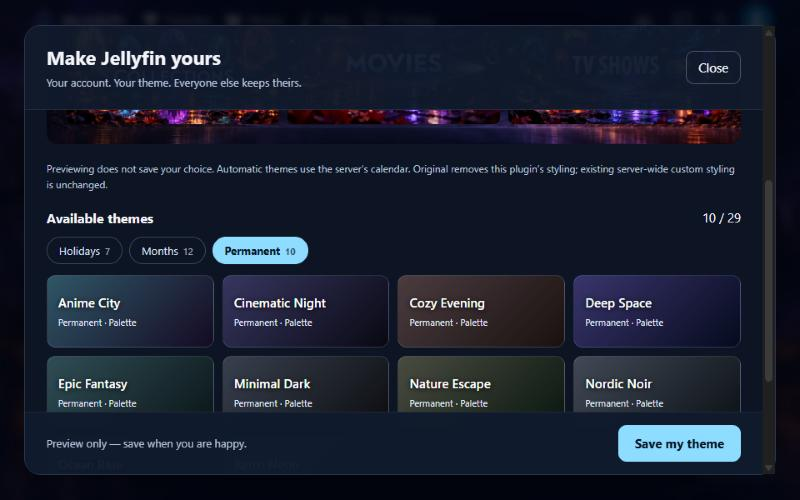
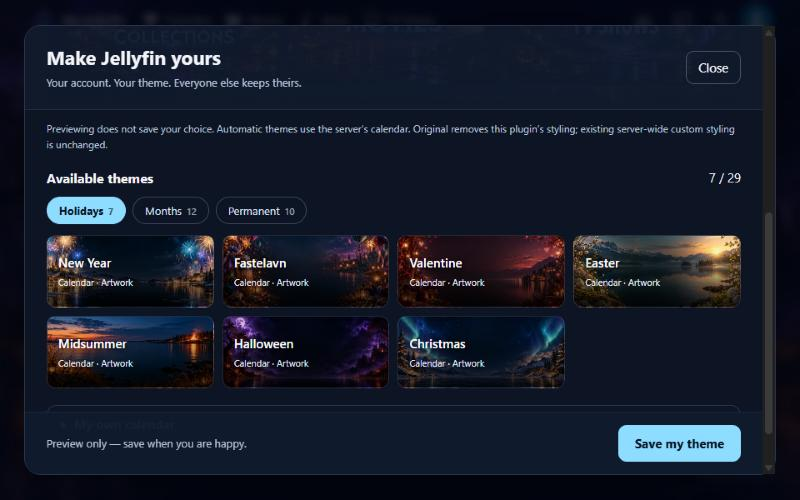
Release 0.2.4.0: picker thumbnails and neutral defaults
- Theme picker tiles show a 320 px copy of each theme's background,
  made by the server and cached by the browser (about 10 KB each).
- Holidays can be left out of Automatic Seasonal from the admin page.
  Until an administrator chooses, Fastelavn and Midsummer are left out
  on servers outside Denmark (by time zone or region).
- New installs use the server's own time zone; saved values are kept.

Built for Jellyfin 12.0, 12.1 and 12.2. Tests: 90 unit, 26 client,
Test-IsolatedServer 56/56 (thumbnail and holiday checks added),
Test-WebInjection 25/25, Test-DefaultPacks 9/9, and a browser check.

diff --git a/src/Jellyfin.Plugin.ThemeManager/Web/admin.html b/src/Jellyfin.Plugin.ThemeManager/Web/admin.html
@@ -28,7 +28,8 @@
     <label>Fixed theme <select class="tm-server-theme" is="emby-select"></select></label>
     <label>Calendar <select class="tm-server-schedule" is="emby-select"></select></label>
     <label style="display:flex;gap:.5em;align-items:center;margin:.8em 0"><input class="tm-allow-personal" type="checkbox" /> Users may make their own personal calendar</label>
-    <label>Calendar time zone <input class="tm-zone" is="emby-input" value="Europe/Copenhagen" /></label>
+    <label>Calendar time zone <input class="tm-zone" is="emby-input" /></label>
+    <fieldset class="tm-holidays" style="border:1px solid #ffffff30;border-radius:8px;margin:1em 0;padding:.6em 1em"><legend>Holidays in Automatic Seasonal</legend><p style="margin:.2em 0 .6em;font-size:.9em;opacity:.8">Unticked holidays are skipped; the month's theme shows instead. Users can still choose them as a fixed theme.</p><div class="tm-holiday-list" style="display:flex;flex-wrap:wrap;gap:.4em 1.4em"></div></fieldset>
     <button class="tm-save-server raised button-submit" is="emby-button" type="button">Save server default</button>
     <h2>Calendars</h2>
     <p>Your own "Automatic Seasonal": choose which theme shows on which dates. Shared calendars can be chosen as the server default and by every user.</p>
@@ -142,6 +143,12 @@
       el('.tm-user-mode').value = mine.mode; el('.tm-user-theme').value = mine.themeId || themes[0]?.id || '';
       el('.tm-server-mode').value = settings.choice.mode; el('.tm-server-theme').value = settings.choice.themeId || themes[0]?.id || '';
       el('.tm-zone').value = settings.timeZoneId;
+      // Holidays: calendar themes with a date rule other than a whole month.
+      const excluded = new Set(settings.automaticExcluded || []);
+      el('.tm-holiday-list').replaceChildren(...themes.filter(t => t.category === 'Calendar' && t.calendar && t.calendar.kind !== 'Month').map(t => {
+        const box = document.createElement('input'); box.type = 'checkbox'; box.value = t.id; box.checked = !excluded.has(t.id);
+        const label = document.createElement('label'); label.style.cssText = 'display:flex;gap:.4em;align-items:center'; label.append(box, t.name); return label;
+      }));
       if (effective.resolution.themeId) el('.tm-gallery').value = effective.resolution.themeId;
       status(themes.length + ' themes · Calendar date: ' + effective.localDate + ' · Effective choice: ' + (effective.theme?.name || 'Original Jellyfin'));
       modeControls(); await preview();
@@ -175,7 +182,7 @@
     }));
     el('.tm-save-server').addEventListener('click', run(async () => {
       const mode = el('.tm-server-mode').value;
-      await api('Admin/Settings', 'PUT', { choice: { mode, themeId: mode === 'Fixed' ? el('.tm-server-theme').value : null, scheduleId: mode === 'Schedule' ? el('.tm-server-schedule').value : null }, timeZoneId: el('.tm-zone').value, allowPersonalSchedules: el('.tm-allow-personal').checked });
+      await api('Admin/Settings', 'PUT', { choice: { mode, themeId: mode === 'Fixed' ? el('.tm-server-theme').value : null, scheduleId: mode === 'Schedule' ? el('.tm-server-schedule').value : null }, timeZoneId: el('.tm-zone').value, automaticExcluded: [...el('.tm-holiday-list').querySelectorAll('input:not(:checked)')].map(b => b.value), allowPersonalSchedules: el('.tm-allow-personal').checked });
       await load(); status('Server default saved. Existing branding is unchanged.');
     }));
     el('.tm-schedules').addEventListener('change', run(() => openEditor(el('.tm-schedules').value)));

diff --git a/src/Jellyfin.Plugin.ThemeManager/ThemeController.cs b/src/Jellyfin.Plugin.ThemeManager/ThemeController.cs
@@ -9,7 +9,8 @@ using ThemeManager.Core;
 
 namespace Jellyfin.Plugin.ThemeManager;
 
-public sealed record ServerSettings(ThemeChoice Choice, string TimeZoneId, bool AllowPersonalSchedules = true);
+/// <param name="AutomaticExcluded">Theme ids left out of Automatic Seasonal; null keeps the current setting.</param>
+public sealed record ServerSettings(ThemeChoice Choice, string TimeZoneId, bool AllowPersonalSchedules = true, IReadOnlyList<string>? AutomaticExcluded = null);
 public sealed record ScheduleTest(ThemeSchedule Schedule, DateOnly? From = null);
 
 [ApiController]
@@ -80,7 +81,7 @@ public sealed class ThemeController(ThemeCatalog catalog, UserThemeStore users, 
     {
         if (Today() is not { } date) return Problem("The configured time zone is invalid. An administrator must correct it.");
         var snapshot = catalog.Snapshot;
-        var result = ThemeResolver.Resolve(choice, Plugin.Instance.ServerChoice, snapshot, date, available);
+        var result = ThemeResolver.Resolve(choice, Plugin.Instance.ServerChoice, snapshot, date, available, Plugin.Instance.AutomaticExcluded);
         return Data(new { Resolution = result, LocalDate = date, Theme = result.ThemeId is { } themeId ? Describe(snapshot.Themes[themeId]) : null, Rendering = "OptInWebClient", RefreshAfterSeconds = 60 });
     }
 
@@ -96,10 +97,12 @@ public sealed class ThemeController(ThemeCatalog catalog, UserThemeStore users, 
     }
 
     [HttpGet("Themes/{id}/Assets/{slot}/Preview")]
-    public async Task<IActionResult> AssetPreview(string id, string slot, [FromQuery] string? v, CancellationToken cancellationToken)
+    public async Task<IActionResult> AssetPreview(string id, string slot, [FromQuery] string? v, [FromQuery] string? size, CancellationToken cancellationToken)
     {
         if (!catalog.Snapshot.Themes.TryGetValue(id, out var theme) || !theme.Assets.TryGetValue(slot, out var asset)) return NotFound();
-        var path = await previews.GetAsync(asset, slot, cancellationToken).ConfigureAwait(false);
+        // Fixed sizes only, so a request cannot make the server encode arbitrary widths.
+        var width = size == "thumb" ? PreviewCache.ThumbnailWidth : PreviewCache.WidthFor(slot);
+        var path = await previews.GetAsync(asset, width, cancellationToken).ConfigureAwait(false);
         // Revisioned URLs never change content, so the browser may keep them; unversioned ones revalidate.
         Response.Headers.CacheControl = v == asset.Revision ? "private, max-age=31536000, immutable" : "private, max-age=0, must-revalidate";
         Response.Headers.XContentTypeOptions = "nosniff";
@@ -180,7 +183,7 @@ public sealed class ThemeController(ThemeCatalog catalog, UserThemeStore users, 
 
     [HttpGet("Admin/Settings")]
     [Authorize(Policy = Policies.RequiresElevation)]
-    public IActionResult GetSettings() => Data(new ServerSettings(Plugin.Instance.ServerChoice, Plugin.Instance.Configuration.TimeZoneId, Plugin.Instance.Configuration.AllowPersonalSchedules));
+    public IActionResult GetSettings() => Data(new ServerSettings(Plugin.Instance.ServerChoice, Plugin.Instance.Configuration.TimeZoneId, Plugin.Instance.Configuration.AllowPersonalSchedules, Plugin.Instance.AutomaticExcluded));
 
     [HttpPut("Admin/Settings")]
     [Authorize(Policy = Policies.RequiresElevation)]
@@ -193,6 +196,7 @@ public sealed class ThemeController(ThemeCatalog catalog, UserThemeStore users, 
             var shared = (await schedules.GetSharedAsync(cancellationToken).ConfigureAwait(false)).ToDictionary(s => s.Id, StringComparer.Ordinal);
             ThemeResolver.Validate(settings.Choice, catalog.Snapshot, allowFollowServer: false, shared);
             TimeZoneInfo.FindSystemTimeZoneById(settings.TimeZoneId);
+            if (settings.AutomaticExcluded?.Any(id => !SafePaths.IsId(id)) == true) throw new InvalidDataException("Holiday ids must be theme ids.");
         }
         catch (Exception ex) when (ex is InvalidDataException or TimeZoneNotFoundException or InvalidTimeZoneException) { return BadRequest(new { Error = ex.Message }); }
         // Use Jellyfin's native plugin configuration persistence, not a separate server settings file.
@@ -202,6 +206,7 @@ public sealed class ThemeController(ThemeCatalog catalog, UserThemeStore users, 
         configuration.ServerScheduleId = settings.Choice.Mode == ThemeMode.Schedule ? settings.Choice.ScheduleId : null;
         configuration.TimeZoneId = settings.TimeZoneId;
         configuration.AllowPersonalSchedules = settings.AllowPersonalSchedules;
+        if (settings.AutomaticExcluded is { } excluded) configuration.AutomaticExcluded = [.. excluded.Distinct(StringComparer.Ordinal)];
         Plugin.Instance.SaveConfiguration();
         return NoContent();
     }

diff --git a/tests/ThemeManager.Tests/CoreTests.cs b/tests/ThemeManager.Tests/CoreTests.cs
@@ -51,6 +51,24 @@ public sealed class CoreTests : IDisposable
         Assert.NotNull(ThemeResolver.Resolve(new(ThemeMode.Fixed, "missing"), new(ThemeMode.Original), snapshot, date).Warning);
     }
 
+    [Fact]
+    public void ExcludedHolidayGivesWayToTheMonth()
+    {
+        Pack(new() { Id = "june", Name = "June", Calendar = new() { Month = 6 } });
+        Pack(new() { Id = "sankthans", Name = "Midsummer", Calendar = new() { Kind = "Range", Start = "06-23", End = "06-24", Priority = 80 } });
+        var snapshot = Catalog.Reload(); var date = new DateOnly(2026, 6, 23);
+        Assert.Equal("sankthans", ThemeResolver.Resolve(new(), new(ThemeMode.Automatic), snapshot, date).ThemeId);
+        Assert.Equal("june", ThemeResolver.Resolve(new(), new(ThemeMode.Automatic), snapshot, date, automaticExcluded: ["sankthans"]).ThemeId);
+        // A fixed choice of an excluded holiday still works: exclusion only affects Automatic Seasonal.
+        Assert.Equal("sankthans", ThemeResolver.Resolve(new(ThemeMode.Fixed, "sankthans"), new(ThemeMode.Automatic), snapshot, date, automaticExcluded: ["sankthans"]).ThemeId);
+    }
+
+    [Theory]
+    [InlineData("Europe/Copenhagen", "US", false)] [InlineData("America/New_York", "DK", false)]
+    [InlineData("America/New_York", "US", true)] [InlineData("Romance Standard Time", "FR", true)] [InlineData(null, null, true)]
+    public void DanishHolidaysAreOnlyDefaultInDenmark(string? zone, string? region, bool excluded)
+        => Assert.Equal(excluded ? RegionalDefaults.DanishHolidays : [], RegionalDefaults.Excluded(zone, region));
+
     [Theory]
     [InlineData("../escape.png")] [InlineData("/escape.png")] [InlineData("C:/escape.png")]
     [InlineData("a\\b.png")] [InlineData("a/../b.png")] [InlineData("a//b.png")]

diff --git a/src/ThemeManager.Core/ThemeResolver.cs b/src/ThemeManager.Core/ThemeResolver.cs
@@ -3,7 +3,8 @@ namespace ThemeManager.Core;
 public static class ThemeResolver
 {
     /// <param name="schedules">Schedules the user may resolve: shared ones plus, under <see cref="ThemeSchedule.PersonalId"/>, their own.</param>
-    public static ThemeResolution Resolve(ThemeChoice user, ThemeChoice server, CatalogSnapshot catalog, DateOnly date, IReadOnlyDictionary<string, ThemeSchedule>? schedules = null)
+    /// <param name="automaticExcluded">Theme ids left out of Automatic Seasonal, e.g. holidays not celebrated where the server is.</param>
+    public static ThemeResolution Resolve(ThemeChoice user, ThemeChoice server, CatalogSnapshot catalog, DateOnly date, IReadOnlyDictionary<string, ThemeSchedule>? schedules = null, IReadOnlyCollection<string>? automaticExcluded = null)
     {
         var choice = user.Mode == ThemeMode.FollowServer ? server : user;
         var source = user.Mode == ThemeMode.FollowServer ? "Server" : "User";
@@ -11,7 +12,7 @@ public static class ThemeResolver
         if (choice.Mode == ThemeMode.Fixed && choice.ThemeId is { } id && catalog.Themes.ContainsKey(id)) return new(id, source);
         if (choice.Mode == ThemeMode.Schedule && choice.ScheduleId is { } scheduleId && schedules?.TryGetValue(scheduleId, out var schedule) == true)
             return new(ResolveSchedule(schedule, catalog, date), source);
-        var automatic = SeasonalCalendar.Resolve(catalog.Themes.Values, date);
+        var automatic = SeasonalCalendar.Resolve(catalog.Themes.Values.Where(t => automaticExcluded?.Contains(t.Manifest.Id) != true), date);
         var warning = choice.Mode switch
         {
             ThemeMode.Fixed => "The selected pack is unavailable; using the calendar or original Jellyfin.",

diff --git a/src/Jellyfin.Plugin.ThemeManager/Plugin.cs b/src/Jellyfin.Plugin.ThemeManager/Plugin.cs
@@ -11,7 +11,10 @@ public sealed class PluginConfiguration : BasePluginConfiguration
     public string ServerMode { get; set; } = "Automatic";
     public string? ServerThemeId { get; set; }
     public string? ServerScheduleId { get; set; }
-    public string TimeZoneId { get; set; } = "Europe/Copenhagen";
+    // A new install uses the server's own time zone; a saved value (older installs) is kept.
+    public string TimeZoneId { get; set; } = TimeZoneInfo.Local.Id;
+    /// <summary>Theme ids left out of Automatic Seasonal. Null: not chosen yet, see <see cref="Plugin.AutomaticExcluded"/>.</summary>
+    public string[]? AutomaticExcluded { get; set; }
     public bool AllowPersonalSchedules { get; set; } = true;
     /// <summary>Show the theme in the normal Jellyfin Web address when File Transformation is installed.</summary>
     public bool ShowInWebClient { get; set; } = true;
@@ -28,6 +31,10 @@ public sealed class Plugin : BasePlugin<PluginConfiguration>, IHasWebPages
     [
         new() { Name = "theme-manager", DisplayName = Name, EmbeddedResourcePath = GetType().Namespace + ".Web.admin.html" },
     ];
+
+    /// <summary>The administrator's choice, or by default the Danish holidays on servers outside Denmark.</summary>
+    public IReadOnlyList<string> AutomaticExcluded => Configuration.AutomaticExcluded
+        ?? RegionalDefaults.Excluded(Configuration.TimeZoneId, System.Globalization.RegionInfo.CurrentRegion.TwoLetterISORegionName);
 
     public ThemeChoice ServerChoice => new(Enum.TryParse<ThemeMode>(Configuration.ServerMode, out var mode) && Enum.IsDefined(mode) && mode != ThemeMode.FollowServer ? mode : ThemeMode.Automatic, Configuration.ServerThemeId, Configuration.ServerScheduleId);
 }

diff --git a/src/ThemeManager.Core/PreviewCache.cs b/src/ThemeManager.Core/PreviewCache.cs
@@ -8,6 +8,8 @@ public sealed class PreviewCache(string root, Func<string, string, int, string> 
 {
     public const int BackgroundWidth = 1280;
     public const int BannerWidth = 640;
+    /// <summary>Small copies for the theme picker's tiles.</summary>
+    public const int ThumbnailWidth = 320;
     private readonly ConcurrentDictionary<string, Lazy<Task<string>>> _pending = new(StringComparer.Ordinal);
     private readonly SemaphoreSlim _encoders = new(2, 2);
     public string Root { get; } = Path.GetFullPath(root);
@@ -15,8 +17,10 @@ public sealed class PreviewCache(string root, Func<string, string, int, string> 
     public static int WidthFor(string slot) => slot is "background" or "splash" or "thumbnail" ? BackgroundWidth : BannerWidth;
 
     public async Task<string> GetAsync(ResolvedAsset asset, string slot, CancellationToken cancellationToken = default)
+        => await GetAsync(asset, WidthFor(slot), cancellationToken).ConfigureAwait(false);
+
+    public async Task<string> GetAsync(ResolvedAsset asset, int width, CancellationToken cancellationToken = default)
     {
-        var width = WidthFor(slot);
         var path = Path.Combine(Root, asset.Revision + "-" + width + extension);
         if (File.Exists(path)) return path;
         // Concurrent requests for one revision share a single encode; the shared task is not cancelled by one caller.

diff --git a/src/ThemeManager.Core/RegionalDefaults.cs b/src/ThemeManager.Core/RegionalDefaults.cs
@@ -1,0 +1,12 @@
+namespace ThemeManager.Core;
+
+/// <summary>Which standard holidays take part in Automatic Seasonal when an administrator has not chosen.</summary>
+public static class RegionalDefaults
+{
+    /// <summary>Holidays celebrated mainly in Denmark. Valentine's Day, Easter, Halloween, Christmas and New Year are general.</summary>
+    public static readonly IReadOnlyList<string> DanishHolidays = ["fastelavn", "sankthans"];
+
+    /// <summary>Danish servers keep every holiday; elsewhere the Danish ones are left out.</summary>
+    public static IReadOnlyList<string> Excluded(string? timeZoneId, string? regionCode)
+        => timeZoneId == "Europe/Copenhagen" || string.Equals(regionCode, "DK", StringComparison.OrdinalIgnoreCase) ? [] : DanishHolidays;
+}

diff --git a/README.md b/README.md
@@ -81,6 +81,8 @@ Click Theme Manager to open its settings:
 
 - **Where users see themes** says *Active* when File Transformation is in use.
 - **Server default** is *Automatic Seasonal*: the month's theme, with holidays taking over on their dates.
+- **Holidays in Automatic Seasonal**: untick holidays you do not celebrate. Outside Denmark, Fastelavn and Midsummer (Sankthans) start unticked.
+- **Calendar time zone** starts as the server's own time zone.
 - The 29 standard themes are installed automatically on first start.
 
 ![Theme Manager settings: where users see themes, and the theme gallery](docs/images/install-6-settings.png)
@@ -91,7 +93,7 @@ Users reload Jellyfin Web once after the install. The **Themes** button (bottom 
 
 ![The theme picker with a preview of the Halloween theme](docs/images/use-1-picker.png)
 
-Themes are grouped in tabs: Holidays, Months, Permanent and your own (Custom). Search looks through all tabs.
+Themes are grouped in tabs: Holidays, Months, Permanent and your own (Custom), each with a small preview of its artwork. Search looks through all tabs.
 
 ![The theme picker's category tabs](docs/images/use-2-picker-tabs.png)
 
@@ -120,7 +122,8 @@ To rebuild the standard packs from full-size PNGs: `python scripts/convert_packs
 - Automatic Seasonal: monthly themes plus holidays (New Year, Valentine's Day, Fastelavn, Easter, Midsummer, Halloween, Christmas); Easter-based dates are calculated each year.
 - Custom calendars: shared calendars made by an administrator, and one personal calendar per user.
 - Library banners on the home screen for every library, with a generic banner showing the library's name where a theme has no specific banner.
-- Theme picker with category tabs, search and live preview; previews use small copies made by the server.
+- Theme picker with category tabs, thumbnails, search and live preview; previews and thumbnails are small copies made by the server.
+- Neutral defaults for any country: the server's own time zone, and Danish-only holidays (Fastelavn, Midsummer) off outside Denmark.
 - Theme packs as data only (`theme.json` + images): no scripts or CSS are accepted from uploads.
 - Fail-safe: a broken pack or plugin error never stops Jellyfin; the reason goes to the server log.
 

diff --git a/docs/CUSTOM-THEMES.md b/docs/CUSTOM-THEMES.md
@@ -171,6 +171,10 @@ Example, the calendar tested for this guide:
 
 Administrators allow or block personal calendars with **Users may make their own personal calendar** under **Server default**.
 
+### Built-in holidays
+
+The built-in Automatic Seasonal can skip holidays: under **Server default**, untick them in **Holidays in Automatic Seasonal** and click **Save server default**. A skipped holiday shows the month's theme instead; users can still choose it as a fixed theme. Outside Denmark, Fastelavn and Midsummer start unticked. Your own calendars are not affected.
+
 ### Limits
 
 - Up to 50 shared calendars, and one personal calendar per user.
